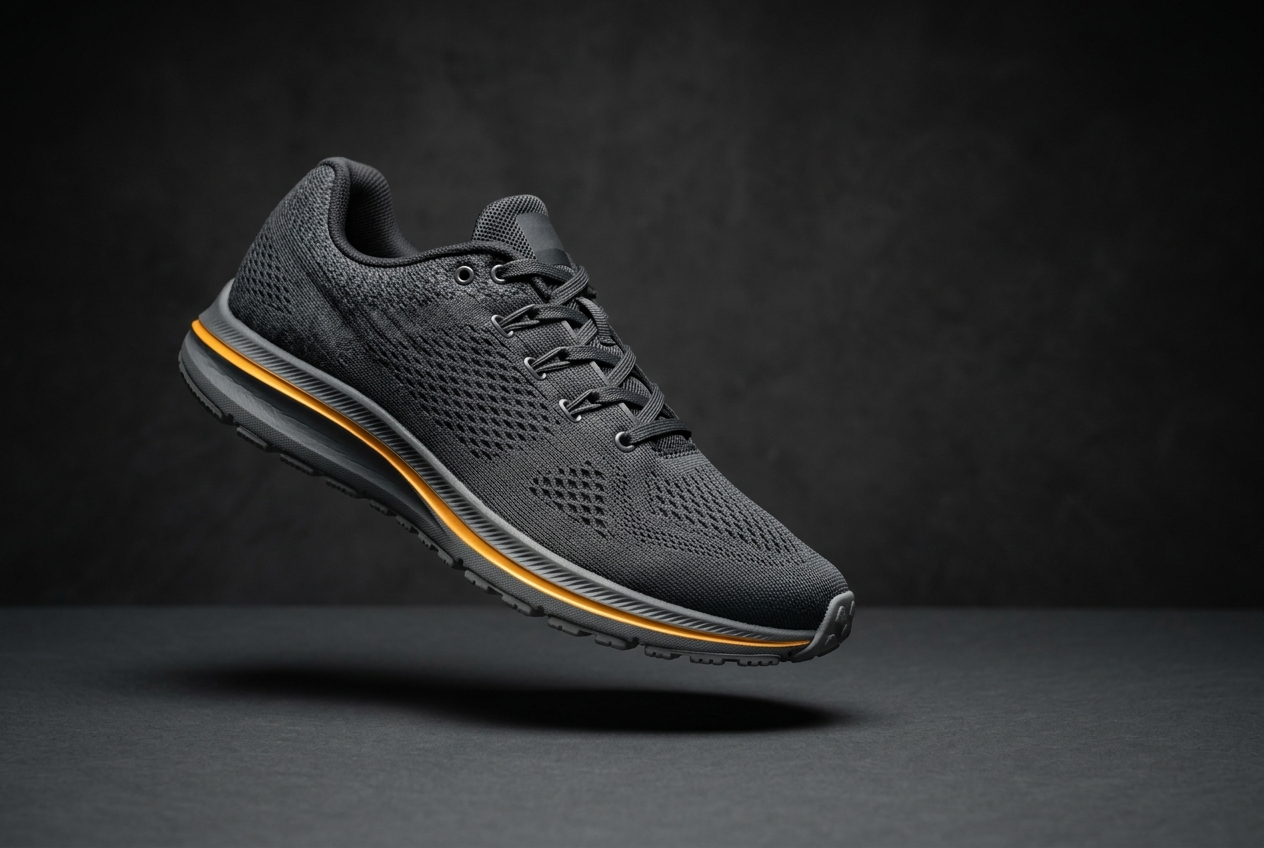
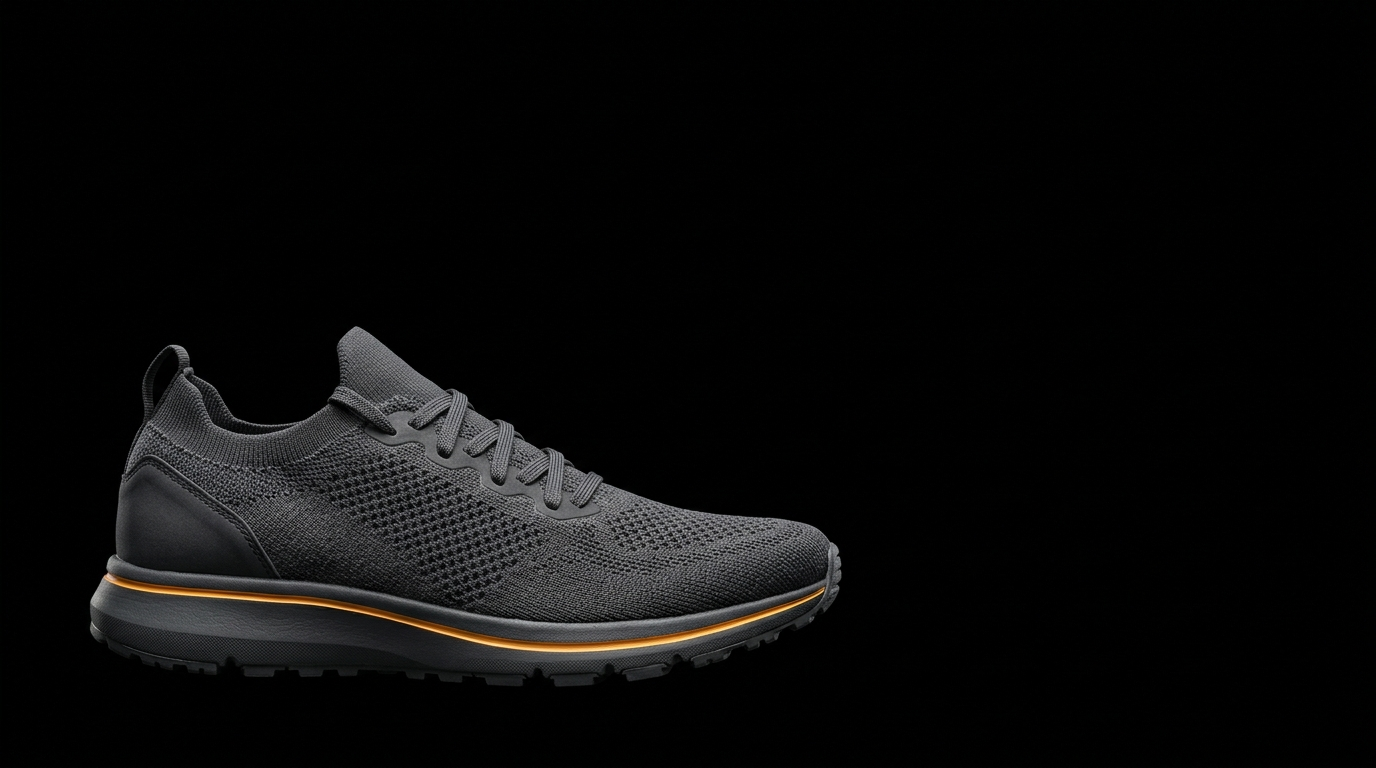
La imagen del producto se genera con el encuadre del aviso, y entonces no hay borde que enmascarar
Durante un día entero esta capa desvaneció el borde de una foto 3:2 metida en un aviso
16:9: primero un degradé de un lado, después una elipse centrada en el zapato. Las dos
eran parches sobre el mismo problema de fondo, y el arreglo lo propuso Nicolás: la foto
traía su propio fondo de estudio, de otro tono que el campo del aviso, así que SIEMPRE
había un borde que ocultar.

La imagen de ahora se generó con el encuadre del aviso y el campo oscuro es parte de la
imagen. Medido sobre el perímetro del cuadro, SIN NINGUNA MÁSCARA: el salto de
luminancia máximo es de 2 a 4 sobre 255, y las cuatro esquinas y el centro valen entre
15 y 17, o sea un solo campo. El velo del creativo llegó a tener un salto de 180.

Lo que se paga y hay que decirlo: la imagen deja de ser reusable en otra caja. Es de
este aviso. Para una pieza que se compone una sola vez es el intercambio correcto.

EL TAMAÑO NO SE LE PIDE AL GENERADOR, SE CALCULA, y esto es lo que probablemente valga
más que el caso. Pedido "un cuarto del ancho" volvió al 44 %; pedido más fuerte --que no
cruce ni la mitad horizontal ni la vertical, con las dos mitades vacías-- volvió al
55 %. Dos intentos, dos respuestas, ninguna la pedida: el modelo no obedece un número.

Así que la geometría se le saca de las manos. `l-capas.sh` coloca la imagen a escala
sobre un campo del MISMO negro que ella trae --medido en sus esquinas, rgb(1,1,1)-- y
entonces el borde de la colocación no puede verse, porque es negro contra el mismo
[…]

diff --git a/demo/hydration-break/graphics/creativos/fuentes/README.md b/demo/hydration-break/graphics/creativos/fuentes/README.md
@@ -6,7 +6,7 @@ arriba.
 
 | archivo | qué es | proporción pedida | qué salió |
 | --- | --- | --- | --- |
-| `kalto-shoe.jpg` | la zapatilla de KALTO | `3:2` | 1264×848 |
+| `kalto-shoe.jpg` | la zapatilla de KALTO | `16:9` | 1376×768 |
 | `meridia-coast.jpg` | la costa de MERIDIA | `16:9` | 1376×768 |
 | `neonectar-panel.jpg` | el panel de NEONECTAR, que es la **entrada** del spot de video | `16:9` | 1376×768 |
 
@@ -31,14 +31,47 @@ Antigravity y no contra una tarjeta. Elegís una proporción, nunca un tamaño e
 > of any real company. Invent an original visual identity. If you find yourself reaching
 > for something that looks like a brand you know, change it.*
 
-**`kalto-shoe`**, proporción `3:2`:
+**`kalto-shoe`**, proporción `16:9`:
 
-> *A single running shoe, three-quarter view, floating slightly above a seamless studio
-> surface, dramatic single-source lighting from the upper left, deep shadow. The shoe is
-> charcoal grey with a single continuous accent in warm amber running along the midsole.
-> NO logo, NO side marking of any kind, NO text anywhere on the shoe or in the image.
-> Clean, cool background, plenty of empty space to the right of the shoe. Photographic,
-> sharp, commercial product photography.*
+> *A single charcoal grey knit running shoe, three-quarter view, with its toe pointing to
+> the right. THE SHOE IS SMALL AND IT SITS IN THE BOTTOM LEFT CORNER. It fits entirely
+> inside the lower left quarter of the picture and does not cross the horizontal middle of
+> the frame nor the vertical middle of the frame: everything above the middle and
+> everything to the right of the middle is empty. The whole right half of the frame and the
+> whole top half of the frame are unbroken darkness with nothing in them at all. The
+> darkness is one single deep near black that continues from just around the shoe out to
+> all four edges of the picture, with no surface underneath the shoe, no horizon line, no
+> wall, no floor, no reflection and no cast shadow anywhere. The only lit thing in the
+> picture is the shoe itself, picked out by a soft light coming from the upper left; the
+> darkness around it and behind it does not brighten in any direction. The shoe is charcoal
+> grey throughout, including a DARK CHARCOAL midsole and a DARK outsole: nothing on the
+> shoe is white or pale. The single exception is one continuous accent line in warm amber
+> running along the midsole. There is no logo, no side marking, no lettering and no numbers
+> anywhere on the shoe or anywhere in the image. Photographic, sharp, commercial product
+> photography.*
+
+**Y este prompt es largo por una razón, no por prolijidad.** La versión anterior pedía la
+zapatilla *"floating slightly above a seamless studio surface"* en `3:2`, y esa imagen se
+usaba adentro de un aviso `16:9`: traía su propio piso de estudio, de otro tono que el
+campo del aviso, así que el creativo tenía que **desvanecerle el borde con una máscara**.
+Durante un día entero se arregló la máscara —primero de un lado, después con una elipse—
+cuando el problema era que hiciera falta una máscara.
+
+**La imagen se genera con el encuadre del aviso y entonces no hay borde que ocultar**: el
+campo oscuro es parte de la imagen. Medido sobre el perímetro del cuadro, sin ninguna
+máscara, el salto de luminancia máximo es de **2 a 4 sobre 255**, contra los 180 que llegó
+a tener el velo del creativo.
+
+Lo que se paga: **esta imagen es de este aviso y no se reusa en otra caja.** Es el
+intercambio, y es el correcto para una pieza que se compone una sola vez.
+
+**El tamaño del zapato NO se le pide al generador**, y eso está medido: pedido al 25 % del
+ancho volvió al 44 %, y pedido más fuerte —que no cruce ni la mitad horizontal ni la
+vertical— volvió al 55 %. **El modelo no obedece un número.** `l-capas.sh` coloca la imagen
+a escala sobre un campo del mismo negro que ella trae, y así el zapato mide exactamente los
+264 px que la plantilla pide y el borde de la colocación no se ve, porque es negro contra
+el mismo negro (medido en 0 y 1 sobre 255). Es el reparto del ADR 0045 un paso más allá: al
+generador se le pide lo que sólo él puede hacer, y la geometría la hace un script.
 
 **`meridia-coast`**, proporción `16:9`:
 
